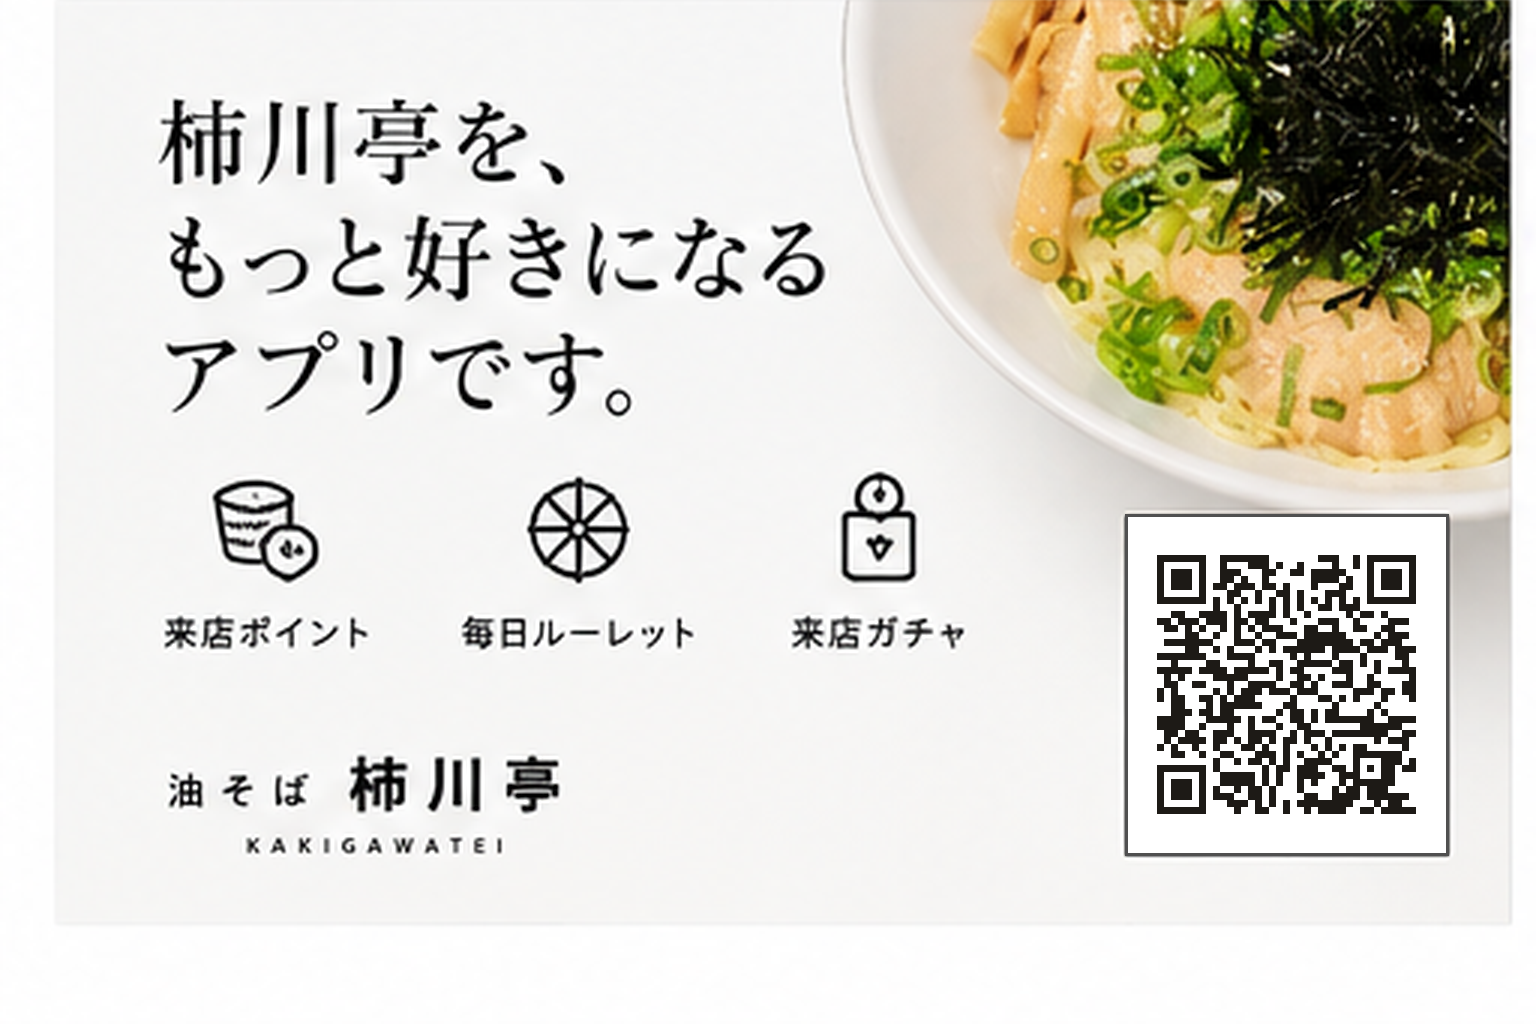
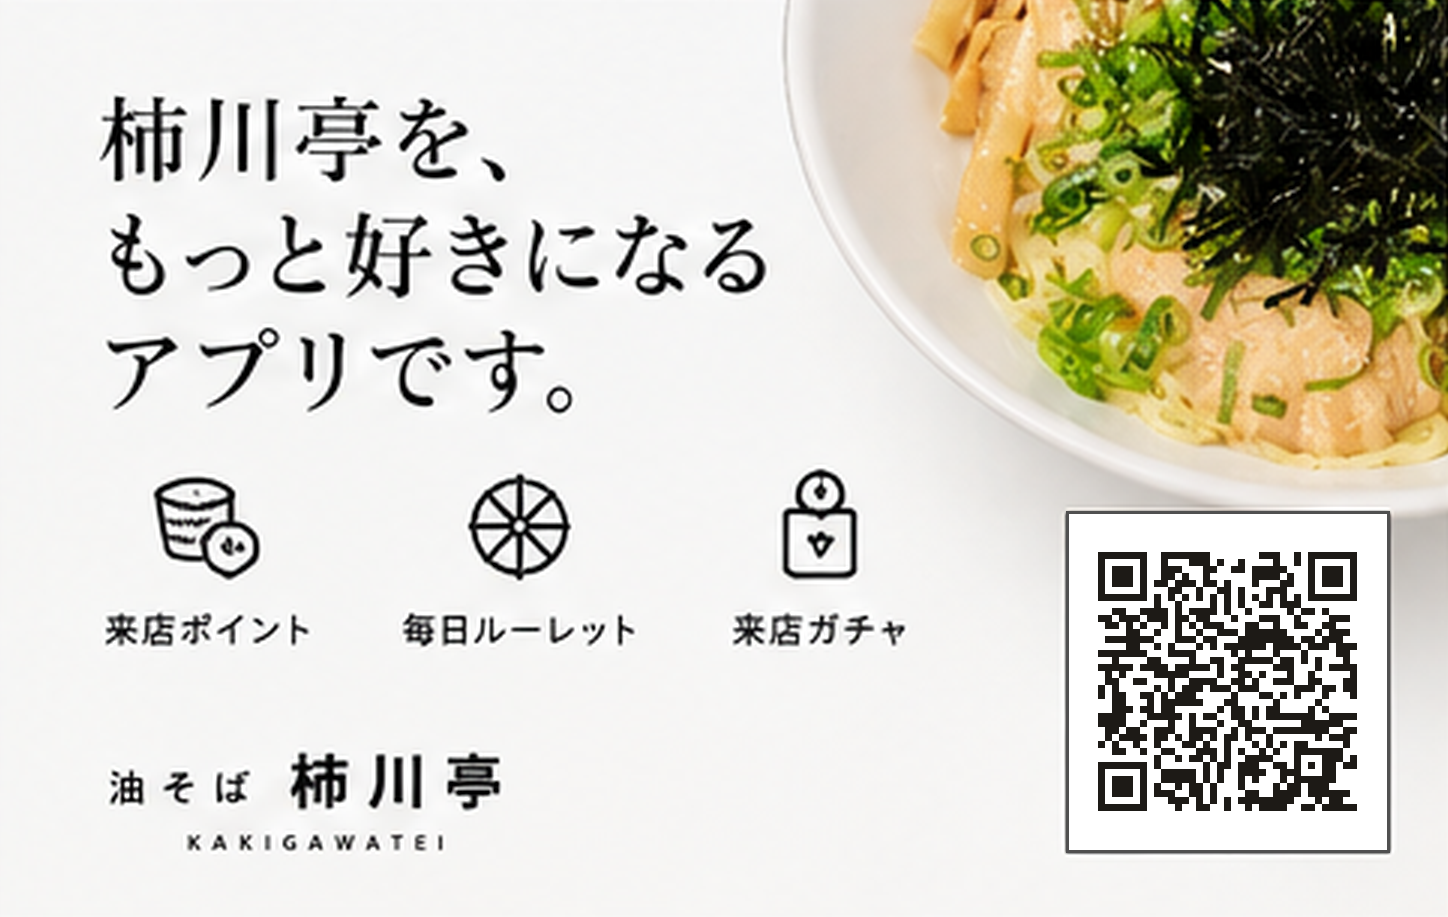
IGストーリーズ: グリッドの白帯を検出してカード/POPを実寸で切り直し（上左に余白・下右欠けの修正）
Claude-Session: https://claude.ai/code/session_01T6j1opLjn85ZhCAmH6MAKP

diff --git a/pop/ig_story/make_story.py b/pop/ig_story/make_story.py
@@ -35,8 +35,7 @@ def pick(d):
 
 def load_art(name):
     im = Image.open(os.path.join(SRC, name + ".png")).convert("RGB")
-    w, h = im.size; m = int(min(w, h) * 0.012)          # グリッドの継ぎ目を落とす
-    return im.crop((m, m, w - m, h - m))
+    return im                                           # 切り出し済み（グリッドの白帯を検出して余白ごと正確に切ってある・2026-09-19）
 
 def draw_text_block(dr, x, y, lines, f, fill, spacing=1.25, align="left", maxw=None):
     for ln in lines:
